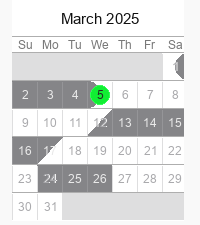
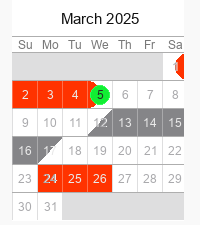
Better support for event colors

Changed region(s): [[0.06, 0.3422, 0.48, 0.4978], [0.18, 0.7156, 0.57, 0.8711], [0.87, 0.2178, 0.93, 0.3733]]

diff --git a/lib/drawcal/drawlib.py b/lib/drawcal/drawlib.py
@@ -76,6 +76,19 @@ def _text_size(draw, text, font):
     return right - left, bottom - top
 
 
+def _lighten_color(color, amount=0.3):
+    """Return a slightly lighter hex color."""
+
+    if not isinstance(color, str) or not color.startswith("#") or len(color) != 7:
+        return color
+
+    rgb = [int(color[index : index + 2], 16) for index in (1, 3, 5)]
+    adjusted = []
+    for channel in rgb:
+        adjusted.append(min(255, int(channel + ((255 - channel) * amount))))
+    return "#{:02x}{:02x}{:02x}".format(*adjusted)
+
+
 def _draw_event_segment(draw, x1, y1, color, style, is_start, is_end):
     """Draw one event cell using the configured cap style."""
 
@@ -244,6 +257,8 @@ def draw_calendar(
             occupied = False
             past_date = False
             conflict = False
+            cell_border_color = None
+            explicit_event_color = False
             curr_day = None
             curr_date = None
 
@@ -271,8 +286,10 @@ def draw_calendar(
 
             # iterate over calendar events (date format: mm/dd/yyyy)
             for event in normalized_events:
+                event_color = event.color or colors.occupied
+
                 # change event color of past dates
-                if past_date:
+                if past_date and event.color is None:
                     event_color = colors.past
 
                 event_dates = event.dates
@@ -303,7 +320,7 @@ def draw_calendar(
                 if first_day == curr_day:
                     checkin = True
                     text_color = colors.checkin_text
-                    if today_str == curr_day:
+                    if event.color is None and today_str == curr_day:
                         event_color = colors.occupied
 
                     if (
@@ -322,6 +339,8 @@ def draw_calendar(
                         is_explicit_start,
                         is_explicit_end,
                     )
+                    cell_border_color = _lighten_color(event_color)
+                    explicit_event_color = event.color is not None
 
                     # track checkin nights
                     checkin_dates.add(curr_day)
@@ -344,6 +363,8 @@ def draw_calendar(
                     draw.pieslice(
                         (x1 - 13, y1 - 1, x1 + 13, y1 + 25), 270, 90, fill=event_color
                     )
+                    cell_border_color = _lighten_color(event_color)
+                    explicit_event_color = event.color is not None
 
                     # track checkout nights
                     checkout_dates.add(curr_day)
@@ -371,6 +392,8 @@ def draw_calendar(
                         is_explicit_start,
                         is_explicit_end,
                     )
+                    cell_border_color = _lighten_color(event_color)
+                    explicit_event_color = event.color is not None
 
                     # track occupied dates
                     occupied_dates.add(curr_day)
@@ -384,11 +407,11 @@ def draw_calendar(
                 if occupied or checkout:
                     if conflict and not checkin:
                         fill_color = colors.conflict_border
+                    elif cell_border_color:
+                        fill_color = cell_border_color
                     else:
                         fill_color = colors.cell_border
-                    if past_date:
-                        fill_color = colors.past_border
-                draw.line((x1, y1, x1, y1 + 25), width=1, fill=fill_color)
+                draw.line((x1, y1 - 1, x1, y1 + 25), width=1, fill=fill_color)
 
             # end draw events
 

diff --git a/tests/test_render.py b/tests/test_render.py
@@ -5,7 +5,7 @@ from datetime import datetime
 from pathlib import Path
 from unittest import mock
 
-from PIL import Image, ImageChops
+from PIL import Image, ImageChops, ImageColor
 
 from drawcal.drawlib import draw_calendar
 import drawcal.drawlib as drawlib
@@ -94,3 +94,28 @@ class RenderTests(unittest.TestCase):
                 year=2022,
                 events=[["6/3/2022", "6/6/2022", "6/7/2022"]],
             )
+
+    def test_explicit_event_color_wins(self):
+        with tempfile.TemporaryDirectory() as tmpdir:
+            outfile = Path(tmpdir) / "render.png"
+
+            with mock.patch.object(drawlib, "today", FIXED_TODAY), mock.patch.object(
+                drawlib, "today_str", "1/1/2026"
+            ):
+                draw_calendar(
+                    month=3,
+                    year=2025,
+                    events=[
+                        {
+                            "start_date": "3/1/2025",
+                            "end_date": "3/5/2025",
+                            "style": "filled",
+                            "color": "#123456",
+                        }
+                    ],
+                    outfile=str(outfile),
+                )
+
+            with Image.open(outfile) as image:
+                expected = ImageColor.getrgb("#123456")
+                self.assertEqual(image.getpixel((163, 53))[:3], expected)
